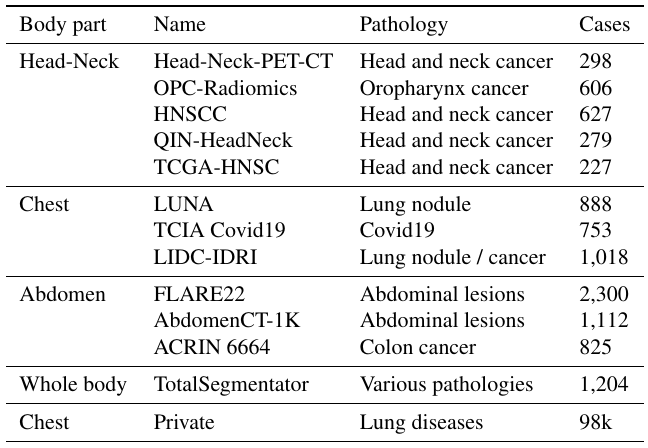
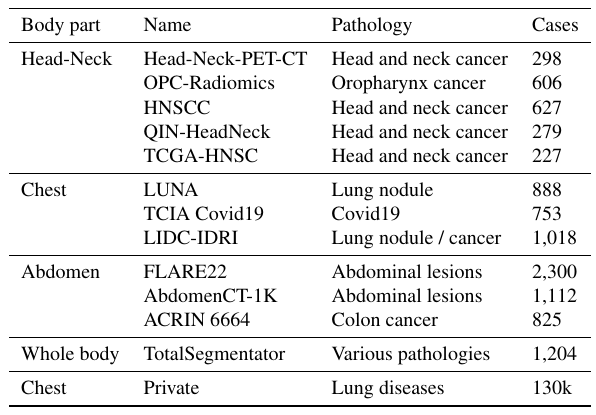
update data info

Changed region(s): [[0.0, 0.0, 0.9966, 1.0]]

diff --git a/README.md b/README.md
@@ -55,7 +55,7 @@ Pretrained with Large-Scale Unannotated 3D Images using Volume Fusion".
 
 - A new self-supervised learning method based on Volume Fusion that is a segmentation-based pretext task.
 - A new network architecture PCT-Net that combines the advantages of CNNs and Transformers.
-- A foundation model that is trained from 100k unannotated 3D CT scans. 
+- A foundation model that is trained from 140k unannotated 3D CT scans. 
 
 ## Links
 
@@ -79,7 +79,7 @@ The pretraining strategy is combined with our proposed PCT-Net to obtain a pretr
 
 ## Datasets
 
-We used 10k CT volumes from public datasets and 98k private CT volumes for pretraining.
+We used 10k CT volumes from public datasets and 130k private CT volumes for pretraining.
 <div align="center">
     <a href="https://"><img width="500px" height="auto" src="figures/datasets.png"></a>
 </div>
